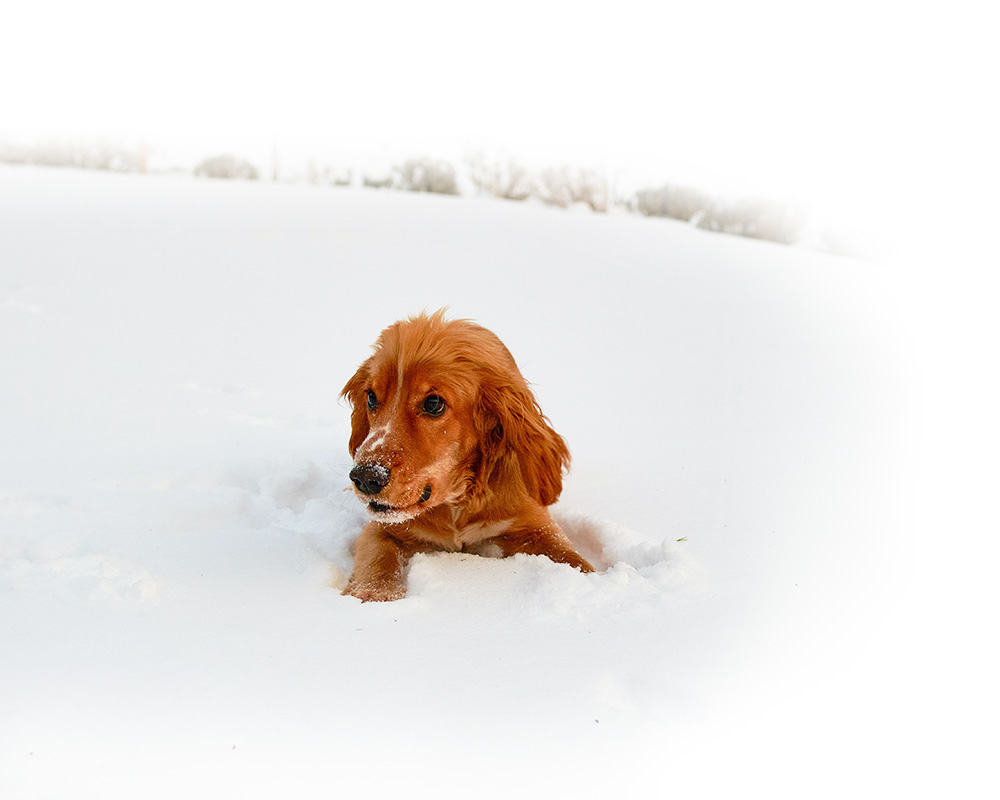
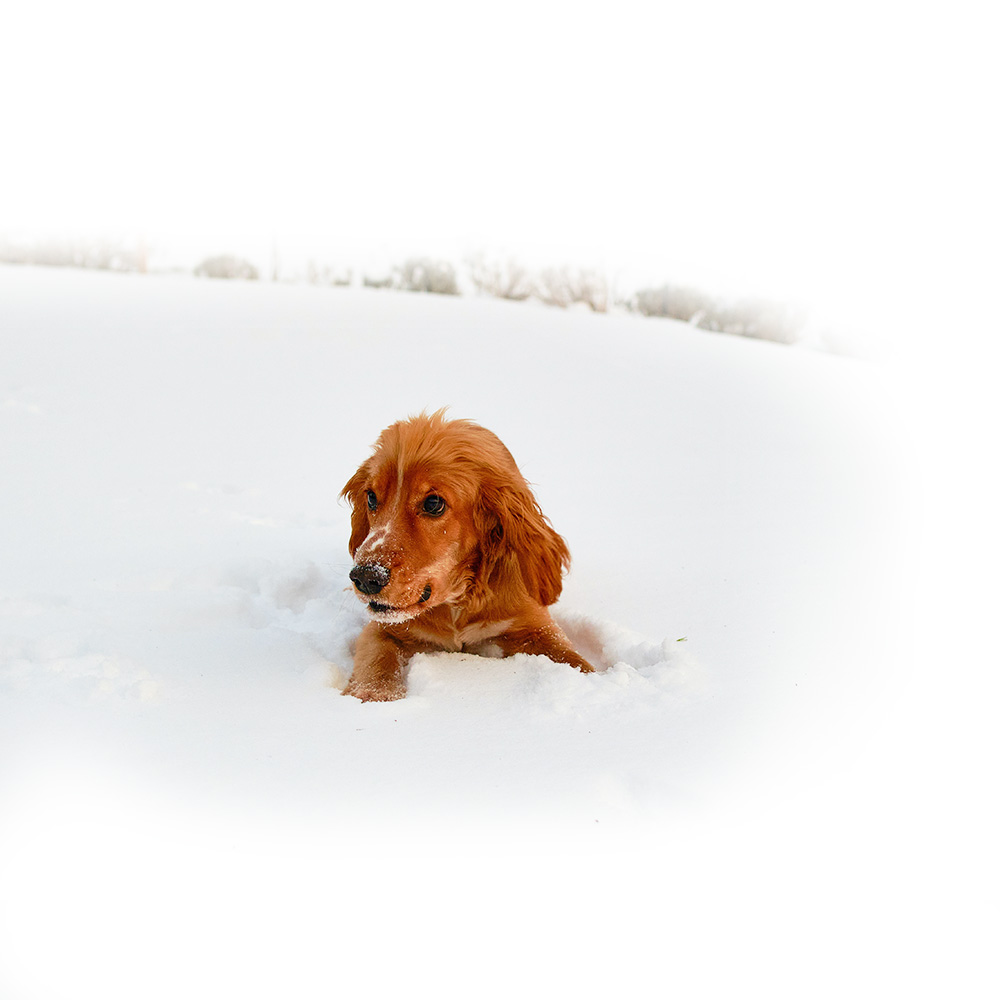
test4

diff --git a/css/style.css b/css/style.css
@@ -136,9 +136,9 @@ letter-spacing: 0em;
 .concept{
     max-width: 100%;
     height: 650px;
-    background-image: url(../img/concept_bg.jpg),url(../img/concept_bg.jpg);
+    background-image: url(../img/concept_bg.jpg),url(../img/concept_bg650.jpg);
     background-repeat: no-repeat;
-    background-position: top  left ;
+    background-position: top -100px left 0;
     background-color: #fff;
     background-attachment:fixed,scroll;
     position: relative;
